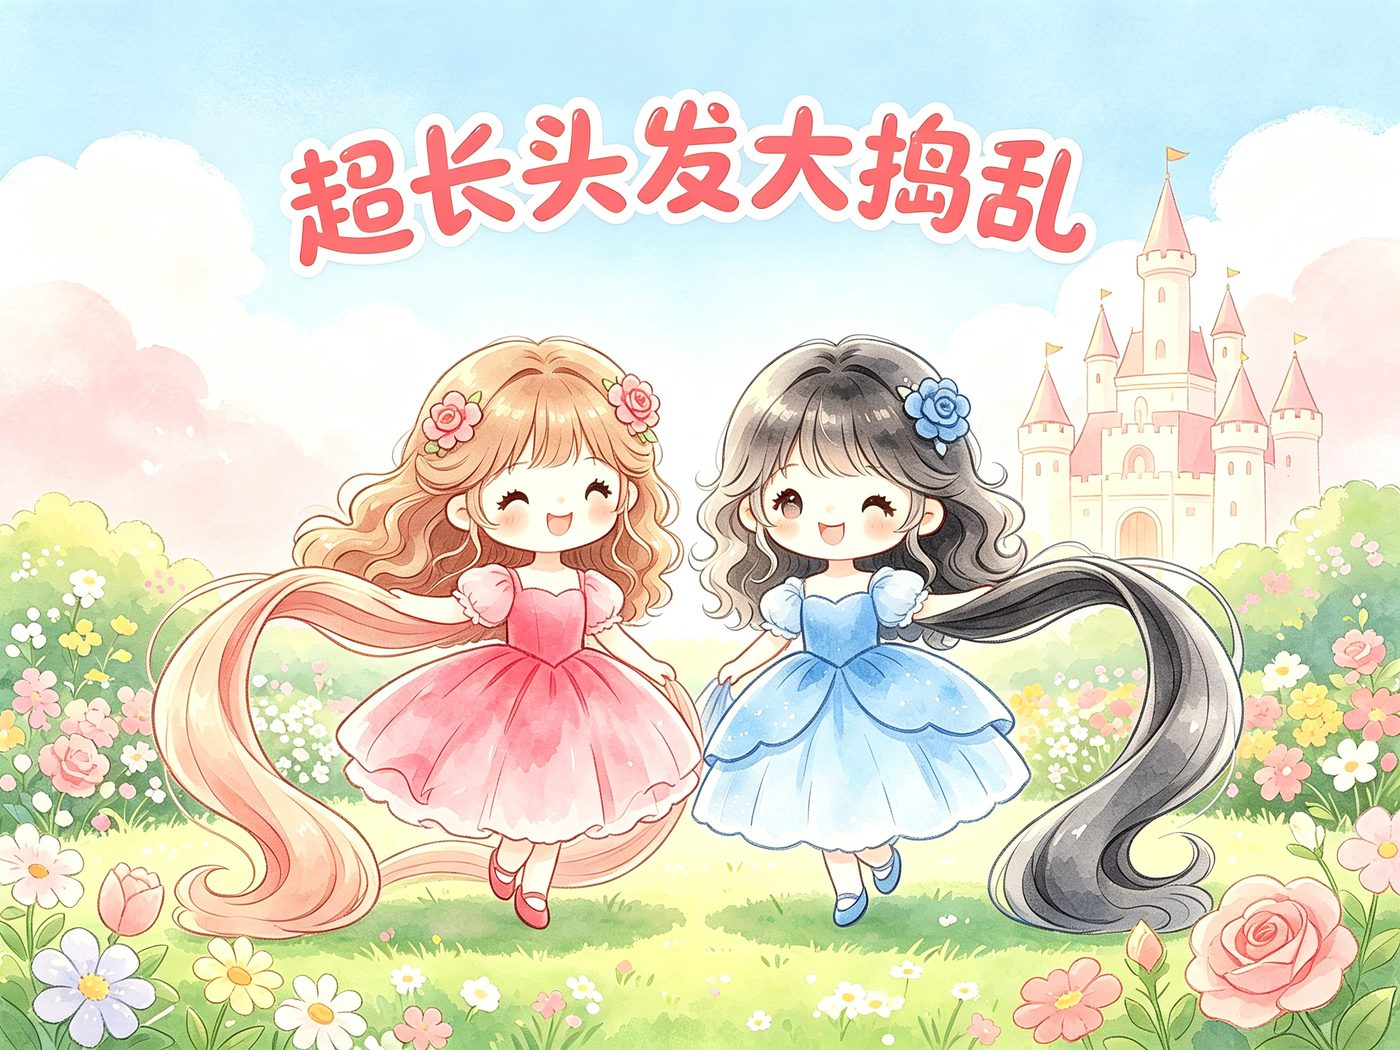
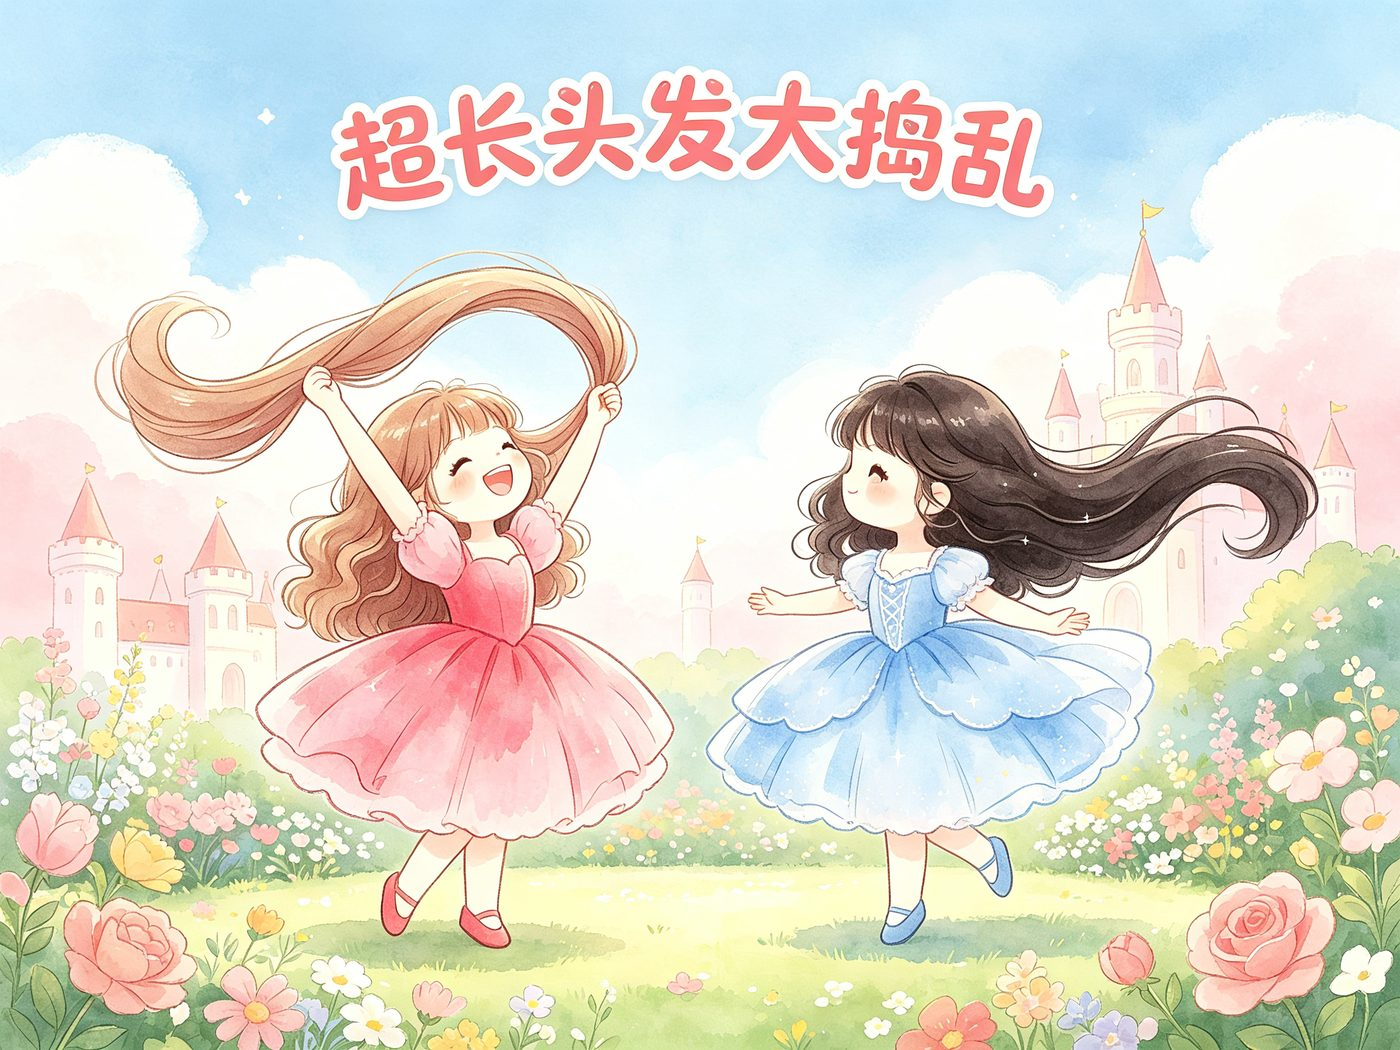
重新调整ep03 的图片

diff --git a/series/rose-princess/ep03-haircut/prompts.md b/series/rose-princess/ep03-haircut/prompts.md
@@ -1,8 +1,8 @@
 # 《超长头发大捣乱》绘本制作记录（Prompt 归档）
 
 > 用途：方便后期继续调整故事内容与配图。改哪一页，复制哪一页的 prompt 去生成新图，
-> 替换 `assets/page-XX.jpg` 后刷新 `index.html` 即可。
-> 最后更新：2026-09-13
+> 替换 `assets/src/page-XX.jpg` 后运行 `tools/optimize_images.py` 重新出网页图即可。
+> 最后更新：2026-09-14（配图按「姿态多样 + 肢体动作 + 视角变化」要求重渲）
 >
 > **系列共用设定（必读）：**
 > - 角色外形 → [`../character-bible.md`](../character-bible.md)
@@ -23,8 +23,9 @@
 | 适配年龄 | 3-6 岁幼儿 |
 | 整体风格 | 调皮搞笑、亲子陪伴、无恐怖、求助教育 |
 | 系列归属 | 蔷薇公主系列第 3 篇；前篇为 `ep02-sisters` |
-| 交付物 | `index.html` + `assets/`（9 张配图） |
-| 图片文件 | `assets/page-01.jpg` ~ `assets/page-09.jpg` |
+| 交付物 | `index.html` + `assets/`（9 张配图）+ `assets/cover.jpg` |
+| 源图 | `assets/src/page-01.jpg` ~ `page-09.jpg`（2304×1728） |
+| 网页图 | `assets/page-XX.jpg`（1400px / q82，由 `tools/optimize_images.py` 生成） |
 
 ## 二、本册出场角色
 
@@ -35,10 +36,14 @@
 > 本册只做「超长拖地」的夸张处理；结局剪成「及肩长发」（仍在长发范畴），
 > 不违反圣经「禁止短发」的角色锁定。
 >
-> **2026-09-13 形象调整：** 玫瑰公主发色已改为**浅黑色软卷发**（原浅黑色软卷发）。
-> 本册配图已按新形象重渲，下文 Prompt 均已同步更新；重渲时挂 `../refs/blue-rose-princess-*.jpg` 新参考图。
+> **2026-09-14 重渲说明：** 本册 9 页按 `style-guide.md` 最新「姿态与肢体动作」要求全部重渲，
+> 视角逐页轮换（3/4 侧面、半侧面、微俯视、背面回眸等），每页都有清晰肢体动作；
+> 重渲时挂 `../refs/blue-rose-princess-*.jpg` 新参考图。
 
 ## 三、逐页内容与配图 Prompt（最终版）
+
+> 每页 Prompt 均含：① 画风固定段（含姿态提醒）② 角色固定段 ③ 本页视角与肢体动作 ④ 一致性约束。
+> 第 5 页用 `image_gen` 纯文生图（特殊俯视构图）；其余页挂 refs 参考图生成。
 
 ---
 
@@ -48,7 +53,7 @@
 
 **配图 Prompt**：
 ```
-儿童绘本插画封面，马卡龙柔和色系，水彩晕染画风。梦幻的百花城堡花园，粉蓝渐变天空飘着软糯白云，远处是奶油色尖顶城堡。画面中心是两位Q版小公主：浅棕色微卷长发、头戴粉色小花发饰、穿粉红色蓬蓬公主裙的蔷薇公主（姐姐），浅黑色软卷发、头戴蓝色小花发饰、穿蓝色蓬蓬公主裙的玫瑰公主（妹妹），姐妹俩开心地甩起各自超级长的头发，头发像小披风一样拖到草地上。画面上方有圆润卡通艺术字“超长头发大捣乱”。线条圆润无棱角，光影温柔，高清适合打印。
+儿童绘本插画封面，马卡龙柔和色系，水彩晕染画风，Q版软萌人物，线条圆润无棱角，光影温柔，画面干净简洁，高清适合打印。人物姿态自然有变化，不要始终正面或单一侧面呆站，需有清晰肢体动作。梦幻的百花城堡花园，粉蓝渐变天空飘着软糯白云。3/4侧面视角略带仰视：穿粉红色蓬蓬公主裙、浅棕色微卷长发的蔷薇公主（姐姐）双手把超长头发高高甩向天空、身体微微后仰大笑；穿蓝色蓬蓬公主裙、浅黑色软卷发的玫瑰公主（妹妹）踮着脚尖转圈，裙摆和超长黑发一起扬起，两只手臂张开。画面上方有圆润卡通艺术字“超长头发大捣乱”。严格保持与参考图相同的发型、发色、服装颜色与造型，不要改变角色外观。
 ```
 
 ---
@@ -59,7 +64,7 @@
 
 **配图 Prompt**：
 ```
-儿童绘本插画，马卡龙柔和色系，水彩晕染画风。百花城堡花园小路上，穿粉红色蓬蓬公主裙、浅棕色微卷长发、头戴粉色小花发饰的蔷薇公主走路时不小心踩到自己拖地的超长头发，差点绊倒，表情慌张；穿蓝色蓬蓬公主裙、浅黑色软卷发、头戴蓝色小花发饰的玫瑰公主跑起来被自己的超长黑发绊到脚，两人头发都长到拖地。旁边站着正常华丽人形形象的国王（深红色镶金王袍、金色王冠、慈祥面容）和王后（淡紫色优雅长裙礼服、金色小皇冠、温柔面容），微笑地看着姐妹俩。线条圆润无棱角，光影温柔，高清适合打印。
+儿童绘本插画，马卡龙柔和色系，水彩晕染画风，Q版软萌人物，线条圆润无棱角，光影温柔，画面干净简洁，高清适合打印。人物姿态自然有变化，不要始终正面或单一侧面呆站，需有清晰肢体动作。百花城堡花园小路，半侧面视角略带俯视：穿粉红色蓬蓬公主裙、浅棕色微卷长发的蔷薇公主被自己拖地的超长头发绊到，身体向前倾倒、一只手臂撑地、另一只手捂着嘴巴；穿蓝色蓬蓬公主裙、浅黑色软卷发的玫瑰公主从侧后方踮脚伸出双手想拉住姐姐，表情着急。右侧正常华丽人形形象的国王（深红色镶金王袍、金色王冠）3/4侧面弯腰伸手去扶，王后（淡紫色优雅长裙礼服、金色小皇冠）侧身双手捂嘴笑着摇头。严格保持与参考图相同的发型、发色、服装颜色与造型，不要改变角色外观。
 ```
 
 ---
@@ -70,7 +75,7 @@
 
 **配图 Prompt**：
 ```
-儿童绘本插画，马卡龙柔和色系，水彩晕染画风。香香的花园理发店内，粉蓝色装饰，有镜子、小梳子、小剪刀。两位Q版小公主乖乖坐在高高的理发椅上：浅棕色微卷长发、头戴粉色小花发饰、穿粉红色蓬蓬公主裙的蔷薇公主（姐姐）；浅黑色软卷发、头戴蓝色小花发饰、穿蓝色蓬蓬公主裙的玫瑰公主（妹妹），她们超级长的头发垂下来拖到地板上，像一条长长的瀑布。旁边站着可爱的兔子造型理发师，拿着小剪刀和小梳子，准备帮她们剪头发。线条圆润无棱角，光影温柔，高清适合打印。
+儿童绘本插画，马卡龙柔和色系，水彩晕染画风，Q版软萌人物，线条圆润无棱角，光影温柔，画面干净简洁，高清适合打印。人物姿态自然有变化，不要始终正面或单一侧面呆站，需有清晰肢体动作。香香的花园理发店内，3/4侧面视角略带俯视：穿粉红色蓬蓬公主裙、浅棕色微卷长发的蔷薇公主侧坐在粉色理发椅上，双手把自己拖地的超长头发捧起来递向前方；穿蓝色蓬蓬公主裙、浅黑色软卷发的玫瑰公主也侧坐在旁边理发椅上，侧身低头好奇地看向剪刀。可爱的兔子理发师弯腰伸出双手接住长发，另一只手拿小剪刀。背景有镜子、小梳子、洗护用品。严格保持与参考图相同的发型、发色、服装颜色与造型，不要改变角色外观。
 ```
 
 ---
@@ -81,7 +86,7 @@
 
 **配图 Prompt**：
 ```
-儿童绘本插画，马卡龙柔和色系，水彩晕染画风。花园理发店内，一只软萌可爱的云朵状小妖怪（白色毛茸茸云朵身体、圆圆大眼睛、蓝色小脸、带小翅膀，笑容顽皮，不恐怖）鼓起腮帮子呼呼吹起一阵调皮的大风，把穿粉红色蓬蓬公主裙、浅棕色微卷长发的蔷薇公主和穿蓝色蓬蓬公主裙、浅黑色软卷发的玫瑰公主的超长头发吹得满天飘起来，两位公主惊讶地捂着头发。理发师也惊讶地看着。画面有趣不吓人。线条圆润无棱角，光影温柔，高清适合打印。
+儿童绘本插画，马卡龙柔和色系，水彩晕染画风，Q版软萌人物，线条圆润无棱角，光影温柔，画面干净简洁，高清适合打印。人物姿态自然有变化，不要始终正面或单一侧面呆站，需有清晰肢体动作。花园理发店内，背面回眸视角略带仰视：软萌可爱的云朵状小妖怪（白色毛茸茸云朵身体、圆圆大眼睛、蓝色小脸、带小翅膀，笑容顽皮，不恐怖）在画面上方鼓起腮帮子呼呼吹出大风。穿粉红色蓬蓬公主裙、浅棕色微卷长发的蔷薇公主和穿蓝色蓬蓬公主裙、浅黑色软卷发的玫瑰公主背对镜头半回眸，双手捂住被风吹起的超长头发，头发向一侧高高飞起。兔子理发师在画面一角抬起手臂挡头发。画面有趣不吓人。严格保持与参考图相同的发型、发色、服装颜色与造型，不要改变角色外观。
 ```
 
 ---
@@ -92,7 +97,7 @@
 
 **配图 Prompt**：
 ```
-儿童绘本插画，马卡龙柔和色系，水彩晕染画风。搞笑名场面：整个花园理发店被两位小公主的超长头发塞满啦！浅棕色和蓝色的长发像云朵一样漫天飞舞，把窗户、大门全部挡住，塞满了整个小店。穿粉红色蓬蓬公主裙的蔷薇公主和穿蓝色蓬蓬公主裙的玫瑰公主只露出圆圆的小脸，头发缠住了小梳子、小剪刀。兔子理发师也差点被头发埋住。软萌的云朵状小妖怪（白色毛茸茸、圆圆大眼睛、带小翅膀）躲在角落偷偷笑。画面乱糟糟又滑稽可爱，不恐怖。线条圆润无棱角，光影温柔，高清适合打印。
+儿童绘本插画，马卡龙柔和色系，水彩晕染画风，Q版软萌人物，线条圆润无棱角，光影温柔，画面干净简洁，高清适合打印。微俯视视角：像从理发店天花板高处往下看，整个房间被浅棕色和深黑色的超长头发塞满，头发像巨大的蓬松云朵覆盖了地板、窗户、大门和镜子。在头发云中间只露出两个Q版小女孩的圆圆小脸和两只伸出扒头发的小手：一张小脸是浅棕色微卷长发、头戴粉色小花发饰、穿粉红色蓬蓬公主裙的蔷薇公主，另一张是浅黑色软卷发、头戴蓝色小花发饰、穿蓝色蓬蓬公主裙的玫瑰公主，两人表情慌张又好笑。画面一角露出一只白兔理发师的两只长耳朵。软萌的云朵状小妖怪（白色毛茸茸身体、圆圆大眼睛、带小翅膀）趴在头发堆角落捂嘴偷笑。头发占画面七成以上，人物只露局部。
 ```
 
 ---
@@ -103,7 +108,7 @@
 
 **配图 Prompt**：
 ```
-儿童绘本插画，马卡龙柔和色系，水彩晕染画风。暖黄色的城堡大厅，拱形窗。穿粉红色蓬蓬公主裙、浅棕色微卷长发、头戴粉色小花发饰的蔷薇公主和穿蓝色蓬蓬公主裙、浅黑色软卷发、头戴蓝色小花发饰的玫瑰公主手拉手跑进门来，头发被风吹得有点乱，表情着急，张开小嘴大声呼喊。前方站着正常华丽人形形象的国王（深红色镶金王袍、金色王冠、慈祥面容）和王后（淡紫色优雅长裙礼服、金色小皇冠、温柔面容），弯腰关切地看着她们。线条圆润无棱角，光影温柔，高清适合打印。
+儿童绘本插画，马卡龙柔和色系，水彩晕染画风，Q版软萌人物，线条圆润无棱角，光影温柔，画面干净简洁，高清适合打印。人物姿态自然有变化，不要始终正面或单一侧面呆站，需有清晰肢体动作。暖黄色城堡大厅，侧面奔跑视角略带俯视：穿粉红色蓬蓬公主裙、浅棕色微卷长发的蔷薇公主和穿蓝色蓬蓬公主裙、浅黑色软卷发的玫瑰公主侧身向画面右侧奔跑，手拉着手，超长头发飘在身后，玫瑰公主回头张嘴大喊。右侧门口正常华丽人形形象的国王（深红色镶金王袍、金色王冠）半侧面弯腰张开双臂，王后（淡紫色优雅长裙礼服、金色小皇冠）侧身伸手。严格保持与参考图相同的发型、发色、服装颜色与造型，不要改变角色外观。
 ```
 
 ---
@@ -114,7 +119,7 @@
 
 **配图 Prompt**：
 ```
-儿童绘本插画，马卡龙柔和色系，水彩晕染画风。花园理发店内，正常华丽人形形象的国王（深红色镶金王袍、金色王冠、慈祥面容）举起魔法权杖，王后（淡紫色优雅长裙礼服、金色小皇冠、温柔面容）双手轻轻吹出香香的淡紫色花瓣微风，把漫天飞舞的浅棕色和蓝色超长头发稳稳压下来。软萌的云朵状小妖怪（白色毛茸茸身体、圆圆大眼睛、蓝色小脸、带小翅膀）乖乖地飘在一旁。穿粉红色蓬蓬公主裙的蔷薇公主和穿蓝色蓬蓬公主裙的玫瑰公主站在旁边，看着头发乖乖落下来，表情惊喜。画面温馨，无恐怖元素。线条圆润无棱角，光影温柔，高清适合打印。
+儿童绘本插画，马卡龙柔和色系，水彩晕染画风，Q版软萌人物，线条圆润无棱角，光影温柔，画面干净简洁，高清适合打印。人物姿态自然有变化，不要始终正面或单一侧面呆站，需有清晰肢体动作。花园理发店内，3/4侧面视角：正常华丽人形形象的国王（深红色镶金王袍、金色王冠）侧身举起魔法权杖，王后（淡紫色优雅长裙礼服、金色小皇冠）侧身双手洒出香香的淡紫色花瓣星光。穿粉红色蓬蓬公主裙的蔷薇公主和穿蓝色蓬蓬公主裙的玫瑰公主蹲在中间仰起头，伸出双手去接落下来的头发，表情惊喜。软萌的云朵状小妖怪（白色毛茸茸身体、圆圆大眼睛、带小翅膀）乖乖飘在一旁低头。画面温馨，无恐怖元素。严格保持与参考图相同的发型、发色、服装颜色与造型，不要改变角色外观。
 ```
 
 ---
@@ -125,7 +130,7 @@
 
 **配图 Prompt**：
 ```
-儿童绘本插画，马卡龙柔和色系，水彩晕染画风。花园理发店内，软萌的云朵状小妖怪（白色毛茸茸身体、圆圆大眼睛、蓝色小脸、带小翅膀）不好意思地低着头，两只小爪子捧着一块小饼干。旁边穿粉红色蓬蓬公主裙、浅棕色微卷长发的蔷薇公主和穿蓝色蓬蓬公主裙、浅黑色软卷发的玫瑰公主笑着看它。兔子理发师拿着小剪刀咔嚓咔嚓，把拖到地上的超长头发修剪成清爽及肩的漂亮长发。地上掉落着剪下的长发。画面温馨可爱。线条圆润无棱角，光影温柔，高清适合打印。
+儿童绘本插画，马卡龙柔和色系，水彩晕染画风，Q版软萌人物，线条圆润无棱角，光影温柔，画面干净简洁，高清适合打印。人物姿态自然有变化，需有清晰肢体动作。花园理发店内，3/4侧面视角略带俯视，画面中只有三位角色：可爱的兔子理发师弯腰咔嚓咔嚓剪发；穿粉红色蓬蓬公主裙、浅棕色微卷长发的蔷薇公主坐在粉色理发椅上，低头看着剪下的头发落到地面；穿蓝色蓬蓬公主裙、浅黑色软卷发的玫瑰公主站在旁边，双手拍掌开心地笑。软萌的云朵状小妖怪（白色毛茸茸身体、圆圆大眼睛、带小翅膀）蹲在角落小爪子捧饼干。注意：全画面只允许出现一位穿蓝色裙子的女孩（玫瑰公主），不要出现第二位蓝裙女孩。严格保持与参考图相同的发型、发色、服装颜色与造型，不要改变角色外观。
 ```
 
 ---
@@ -136,7 +141,7 @@
 
 **配图 Prompt**：
 ```
-儿童绘本插画，马卡龙柔和色系，水彩晕染画风。温馨结局画面，百花花园黄昏暖光，穿粉红色蓬蓬公主裙、浅棕色微卷及肩长发的蔷薇公主（姐姐）和穿蓝色蓬蓬公主裙、蓝色软卷及肩长发的玫瑰公主（妹妹）头发清爽不再拖地，开心地转圈圈，新发型飘起来很漂亮。软萌的云朵状小妖怪（白色毛茸茸身体、圆圆大眼睛、带小翅膀）抱着小饼干乖乖地坐在一旁笑眯眯。背景是粉色晚霞、星星和盛开的花朵，蝴蝶飞过。画面温馨治愈。线条圆润无棱角，光影温柔，高清适合打印。
+儿童绘本插画，马卡龙柔和色系，水彩晕染画风，Q版软萌人物，线条圆润无棱角，光影温柔，画面干净简洁，高清适合打印。人物姿态自然有变化，不要始终正面或单一侧面呆站，需有清晰肢体动作。温馨结局画面，百花花园黄昏暖光，背面回眸视角：穿粉红色蓬蓬公主裙、浅棕色微卷及肩长发的蔷薇公主（姐姐）和穿蓝色蓬蓬公主裙、浅黑色软卷及肩长发的玫瑰公主（妹妹）向前奔跑、回头笑，清爽的头发和裙摆扬起，不再拖地。软萌的云朵状小妖怪（白色毛茸茸身体、圆圆大眼睛、带小翅膀）在后面追着飘起的泡泡飞，小爪子前伸。背景是粉色晚霞、星星和盛开的花朵。严格保持与参考图相同的发型、发色、服装颜色与造型，不要改变角色外观。
 ```
 
 ---
@@ -147,9 +152,10 @@
 
 | 想改什么 | 怎么做 |
 |---|---|
-| 改某一页画面 | 按系列模板重拼 Prompt（固定段勿改）→ 挂 refs → 生成 → 替换 `assets/page-XX.jpg` |
+| 改某一页画面 | 按系列模板重拼 Prompt（固定段勿改）→ 挂 refs → 生成 2304×1728 源图 → 覆盖 `assets/src/page-XX.jpg` → 跑 `python tools/optimize_images.py series/rose-princess/ep03-haircut` |
 | 改某页文字 | 编辑 `index.html` 对应 `<p class="quote">` |
-| 增删页面 | 在 `.story` 内复制/删除 `.page`，图片连续命名 |
+| 增删页面 | 在 `.story` 内复制/删除 `.page`，源图连续命名后重跑脚本 |
 | 改角色外形 | 先改本系列 `character-bible.md` 与 `refs/`，再评估是否重渲本册 |
 
-> 注意：保持 4:3；替换后用首页「强制刷新」确认；转发时连同 `assets/` 一起发送。
+> 注意：源图保持 4:3（2304×1728）；网页图与封面由脚本统一生成，不要手动压图；
+> 替换后用首页「强制刷新」确认；转发时连同 `assets/` 一起发送。
